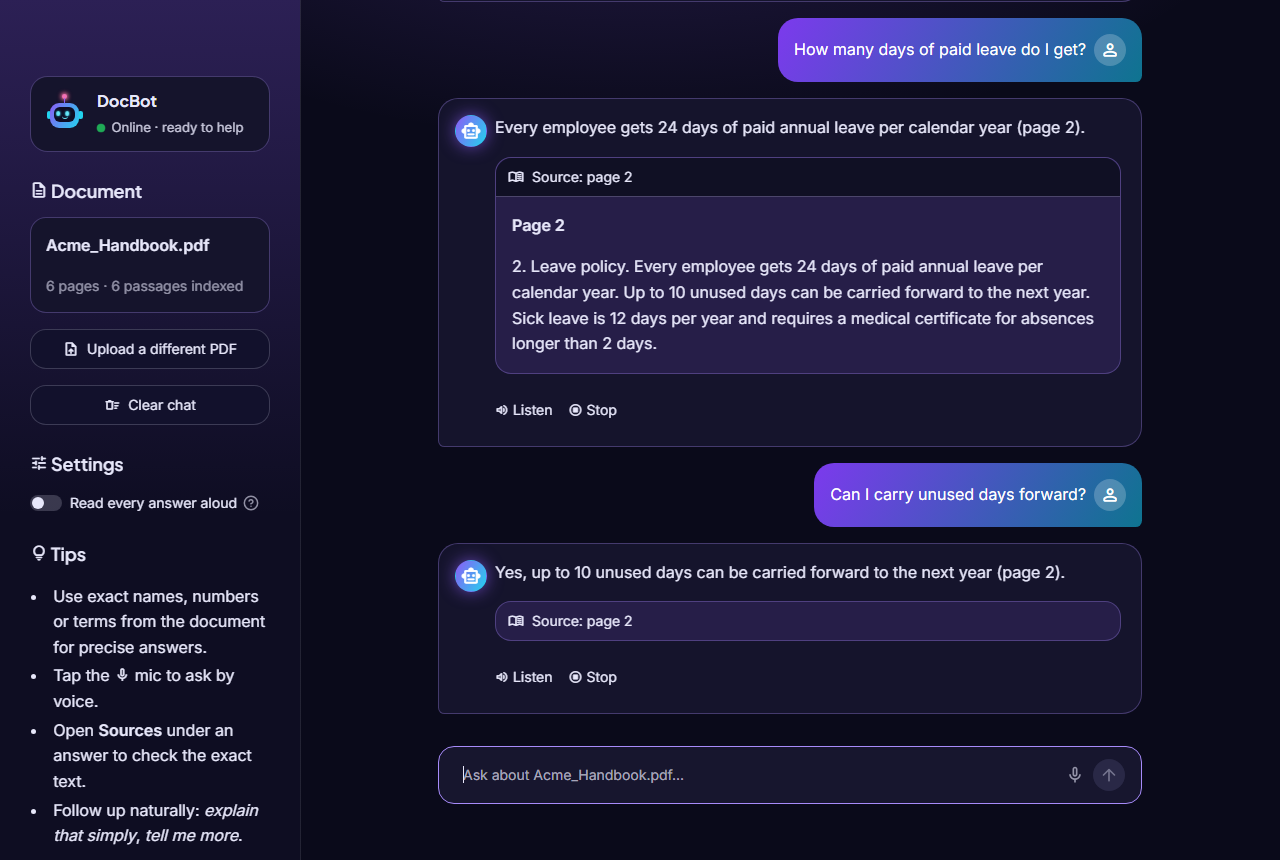
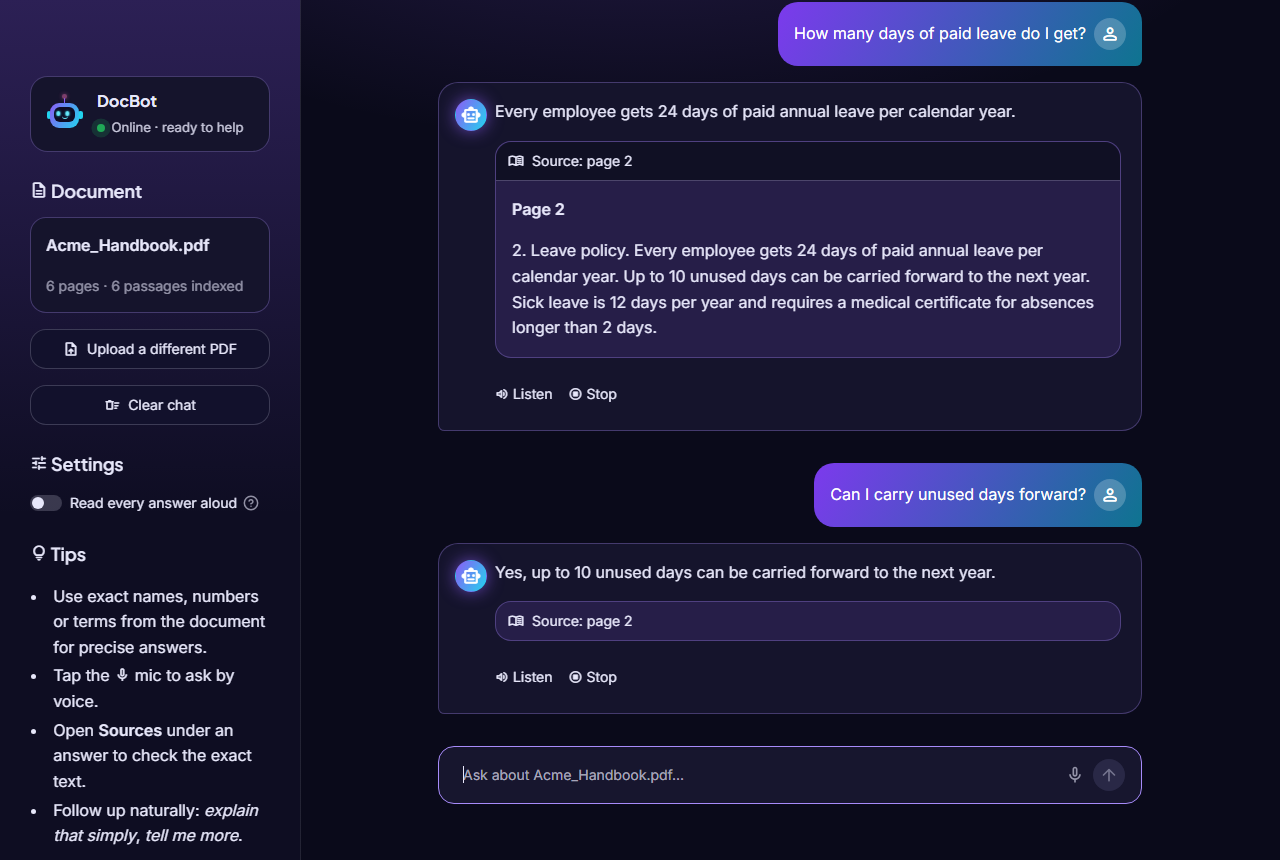
Show sources below answers instead of inside them

Changed region(s): [[0.3438, 0.0, 0.9062, 0.4837], [0.7812, 0.6651, 0.8125, 0.6953], [0.0625, 0.1209, 0.0938, 0.1512]]

diff --git a/app.py b/app.py
@@ -802,13 +802,17 @@ Rules:
   answer its most likely meaning.
 - You may draw simple, direct conclusions from the excerpts (for example, whether someone has
   work experience, or how many years), and say what they're based on.
-- Cite the page for every fact, like (page 41).
+- Don't put page numbers or citations like "(page 41)" inside the answer; the app shows the
+  sources below the answer.
 - If the excerpts answer only part of the question, answer that part and say what's missing.
 - If the excerpts contain nothing that answers the question, reply exactly: "{NOT_FOUND_ANSWER}"
 - If the whole message is just small talk (a greeting, "how are you", thanks, "who are you") and
-  asks nothing about the document, reply briefly and warmly, without page citations, and invite
-  questions about the document. Otherwise, answer directly without greetings or pleasantries.
+  asks nothing about the document, reply briefly and warmly and invite questions about the
+  document. Otherwise, answer directly without greetings or pleasantries.
 - {language_rule}{note}
+- End with one last line, in English and plain text, listing the page numbers of the excerpts
+  your answer used: "{SOURCES_MARKER} 12, 41". Write "{SOURCES_MARKER} none" if you used none
+  (small talk, or nothing found).
 
 document excerpts:
 {context}
@@ -819,15 +823,67 @@ conversation so far:
 question: {query}"""
 
 
-def pick_sources(answer, documents):
-    """The passages whose pages the answer cites, plus any cited pages that weren't
-    among the passages, which may be wrong. An answer that cites no pages (e.g. a
-    reply to small talk) gets no sources."""
-    cited = set()
-    ## "page 41", "pages 41 and 42", Hindi "पृष्ठ 41"
-    for group in re.findall(r"(?:\bpages?|पृष्ठ)\s+(\d+(?:\s*(?:,|and|&|-|–|और|तथा)\s*\d+)*)",
-                            answer, re.IGNORECASE):
-        cited.update(int(n) for n in re.findall(r"\d+", group))
+## Gemini ends each answer with a line like "SOURCES: 12, 41". AnswerStream takes it
+## off before the answer is shown, and pick_sources turns it into the Sources box.
+SOURCES_MARKER = "SOURCES:"
+## "page 41", "pages 41 and 42", Hindi "पृष्ठ 41"
+_PAGE_REF = r"(?:\bpages?|\bp\.|पृष्ठ)\s*(\d+(?:\s*(?:,|and|&|-|–|और|तथा)\s*\d+)*)"
+
+
+class AnswerStream:
+    """Passes Gemini's answer through as it streams, but holds back the final
+    "SOURCES: ..." line (kept in .sources_line), so readers never see it."""
+
+    def __init__(self, chunks):
+        self.chunks = chunks
+        self.sources_line = ""
+
+    def __iter__(self):
+        marker = SOURCES_MARKER.upper()
+        pending = ""
+        for piece in self.chunks:
+            if self.sources_line:  # already past the marker
+                self.sources_line += piece
+                continue
+            pending += piece
+            at = pending.upper().find(marker)
+            if at >= 0:
+                self.sources_line = pending[at + len(marker):] or " "
+                text = pending[:at].rstrip(" \t\n*_")
+                if text:
+                    yield text
+                pending = ""
+                continue
+            ## Hold back the end if it could be the start of the marker, plus any
+            ## spaces / newlines / bold markers just before it
+            keep = 0
+            for size in range(min(len(marker) - 1, len(pending)), 0, -1):
+                if marker.startswith(pending[-size:].upper()):
+                    keep = size
+                    break
+            while keep < len(pending) and pending[-keep - 1] in " \t\n*_":
+                keep += 1
+            if len(pending) > keep:
+                yield pending[:len(pending) - keep]
+                pending = pending[len(pending) - keep:]
+        if pending and not self.sources_line:
+            yield pending.rstrip()
+
+
+def remove_inline_citations(text):
+    ## In case Gemini still writes "(page 41)" inside the answer
+    return re.sub(rf"\s*\((?:see\s+)?{_PAGE_REF}\)", "", text, flags=re.IGNORECASE).strip()
+
+
+def pick_sources(answer, sources_line, documents):
+    """The passages from the pages listed on the answer's SOURCES line, plus any
+    listed pages that weren't among the passages, which may be wrong. An answer
+    that lists no pages (e.g. a reply to small talk) gets no sources."""
+    cited = {int(n) for n in re.findall(r"\d+", sources_line)}
+    if not sources_line.strip():
+        ## No SOURCES line: fall back to page references inside the answer
+        for group in re.findall(_PAGE_REF, answer, re.IGNORECASE):
+            cited.update(int(n) for n in re.findall(r"\d+", group))
     used = [d for d in documents if d.metadata.get("page") in cited]
     sources = [{"page": d.metadata.get("page"), "text": d.page_content} for d in used]
     unverified = sorted(cited - {d.metadata.get("page") for d in documents})
@@ -849,7 +905,8 @@ def show_sources(sources, unverified_pages=()):
         return
     pages = sorted({s["page"] for s in sources}, key=lambda p: (p is None, p))
     label = "Source: page " if len(pages) == 1 else "Sources: pages "
-    with st.expander(label + ", ".join(map(str, pages)), icon=":material/menu_book:"):
+    label += ", ".join(map(str, pages[:5])) + (f" +{len(pages) - 5} more" if len(pages) > 5 else "")
+    with st.expander(label, icon=":material/menu_book:"):
         for s in sources:
             st.markdown(f"**Page {s['page']}**")
             st.markdown(_escape_markdown(s["text"]))
@@ -1193,7 +1250,7 @@ if not st.session_state.document_uploaded:
         ("forum", "Ask naturally",
          "Type or tap the mic, in English or Hindi. Follow-ups like \"explain that\" work too."),
         ("menu_book", "Answers with sources",
-         "Each answer cites its pages and shows the exact passages it used."),
+         "Below each answer, see the pages and exact passages it came from."),
         ("record_voice_over", "Listen to answers",
          "Spoken questions get spoken answers. Replay any answer anytime."),
     ]
@@ -1343,12 +1400,14 @@ else:
                             prompt = build_prompt(query, documents, history, note)
 
                             ## Stream the answer; keep the dots until the first words arrive
-                            stream = _answer_text(get_llm().stream(prompt))
+                            answer_stream = AnswerStream(_answer_text(get_llm().stream(prompt)))
+                            stream = iter(answer_stream)
                             first_part = next(stream, "")
 
                     if documents:
                         ## Show the answer word by word as Gemini generates it
                         answer = st.write_stream(chain([first_part], stream))
+                        answer = remove_inline_citations(answer if isinstance(answer, str) else "")
                     else:
                         ## Small-talk reply, or "not found" (never answered from Gemini's own knowledge)
                         answer = answer or NOT_FOUND_ANSWER
@@ -1364,7 +1423,7 @@ else:
             ## Sources (none for "not found"), tips, and Listen / Stop
             sources, unverified_pages = [], []
             if documents and answer.strip() != NOT_FOUND_ANSWER:
-                sources, unverified_pages = pick_sources(answer, documents)
+                sources, unverified_pages = pick_sources(answer, answer_stream.sources_line, documents)
             reply = {"role": "assistant", "content": answer, "sources": sources,
                      "unverified_pages": unverified_pages,
                      "not_found": answer.strip() == NOT_FOUND_ANSWER, "asked_by_voice": voice}

diff --git a/README.md b/README.md
@@ -17,8 +17,9 @@ click "Yes, get this app back up!" and give it about a minute to wake up.
 
 ## Features
 
-- **Answers grounded in your PDF.** DocBot answers only from the document, cites pages like
-  "(page 41)", and lists the source passages under each answer.
+- **Answers grounded in your PDF.** DocBot answers only from the document. Under each answer, a
+  **Source** box shows the pages it came from and the exact passages, keeping the answer itself
+  clean to read and pleasant to listen to.
 - **Says "I couldn't find that"** when the document doesn't answer the question, instead of
   guessing from general knowledge.
 - **Voice in, voice out.** Ask by microphone; spoken questions get spoken answers. Any answer can
@@ -64,13 +65,14 @@ flowchart LR
      "what does it cover?"), passages are sampled from across the whole document.
 3. **Answering.** Gemini gets the passages, the last few chat messages and strict rules:
    - use only the passages
-   - cite pages
    - answer partially when that's all the passages support
    - otherwise reply "I couldn't find that in the document."
+   - end with a hidden line listing the pages it used
 
-   The answer streams in word by word.
-4. **Checking.** The pages the answer cites are matched to the passages it was given and shown as
-   sources. A cited page that wasn't among them is flagged.
+   The answer streams in word by word. The hidden pages line is filtered out of the stream as it
+   arrives, so readers never see it.
+4. **Checking.** The pages on that line are matched to the passages Gemini was given and shown in
+   the **Source** box under the answer. A listed page that wasn't among them is flagged.
 5. **Voice.** Spoken questions are transcribed by Gemini. Answers are read aloud by the browser's
    built-in speech engine.
    - The live level meter uses the Web Audio API on the same microphone stream.
